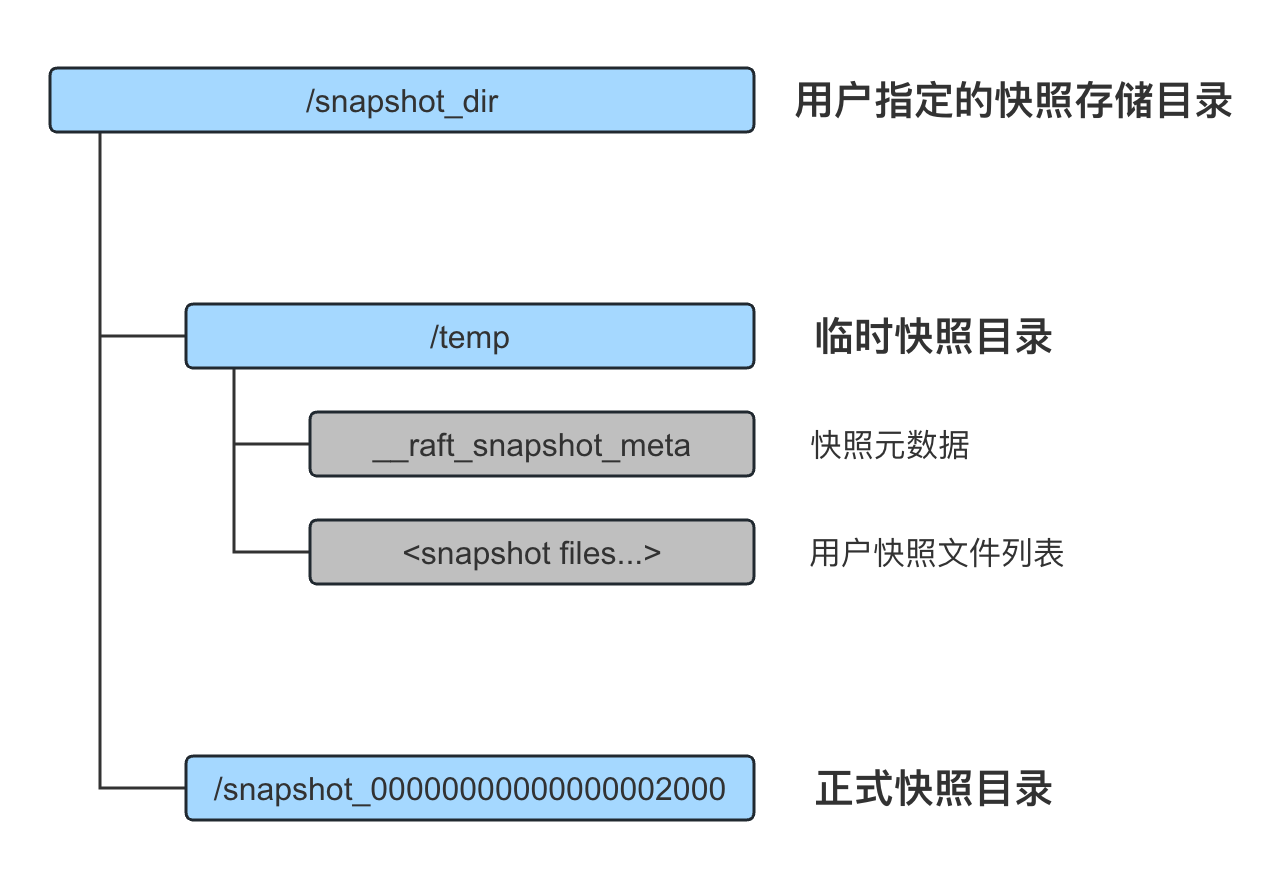
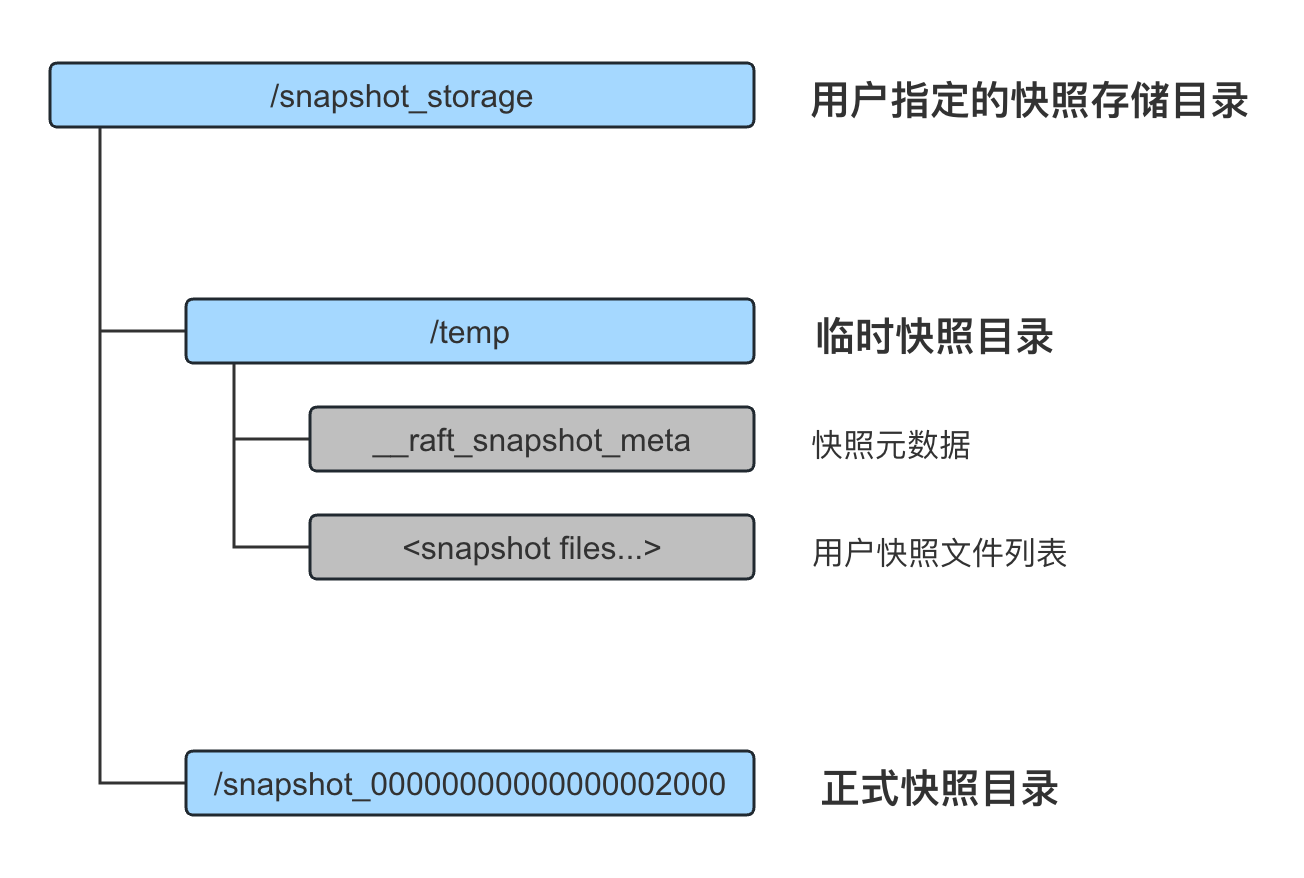
175

diff --git a/ch05/5.1/save.md b/ch05/5.1/save.md
@@ -64,7 +64,7 @@ do_real_snapshot() {
 
 快照目录下除了用户写入的快照文件集外，还有一个框架写入的元数据文件 `__raft_snapshot_meta`，元数据主要保存以下 2 部分信息：
 
-* 快照中每一个文件的相对路径，以及其 `CRC` 校验值
+* 快照中每一个文件的相对路径
 * 快照中包含的最后日志的 `index` 和 `term`，以及集群配置
 
 参见以下元数据 `proto`：
@@ -204,11 +204,10 @@ void NodeImpl::snapshot(Closure* done) {
 执行快照任务
 ---
 
-在正式创建快照前会做一些判断，决定是否要创建快照；若确定要创建快照，则：
+`NodeImpl::do_snapshot` 会调用 `SnapshotExecutor::do_snapshot` 执行快照任务。在正式创建快照前会做一些判断，决定是否要创建快照；若确定要创建快照，则：
 * 创建 `temp` 目录用于保存临时快照
 * 将创建快照任务放入 [ApplyTaskQueue][ApplyTaskQueue] 中等待被执行
 
-执行快照任务：
 ```cpp
 void NodeImpl::do_snapshot(Closure* done) {
     ...
@@ -217,9 +216,7 @@ void NodeImpl::do_snapshot(Closure* done) {
     }
     ...
 }
-```
 
-```cpp
 void SnapshotExecutor::do_snapshot(Closure* done) {
     ...
     // (1) 判断 1：正在从 Leader 下载快照
@@ -250,7 +247,8 @@ void SnapshotExecutor::do_snapshot(Closure* done) {
         return;
     }
 
-    // (4) 创建 temp 目录用于保存临时快照，并返回 SnapshotWriter
+    // (4) 调用 `LocalSnapshotStorage::create` 创建 temp 目录用于保存临时快照
+    //     并返回 SnapshotWriter
     SnapshotWriter* writer = _snapshot_storage->create();
     ...
     _saving_snapshot = true;
@@ -269,7 +267,7 @@ void SnapshotExecutor::do_snapshot(Closure* done) {
 创建临时目录
 ---
 
-创建 `temp` 目录，若已存在则先将其删除，并返回 `SnapshotWriter`：
+`LocalSnapshotStorage::create` 会创建 `temp` 目录，若事先已存在 `temp` 目录，则先将其删除后再创建，并返回 `SnapshotWriter`：
 
 ```cpp
 SnapshotWriter* LocalSnapshotStorage::create() {
@@ -280,7 +278,7 @@ SnapshotWriter* LocalSnapshotStorage::create(bool from_empty) {
     LocalSnapshotWriter* writer = NULL;
 
     do {
-        std::string snapshot_path(_path);  // _path 为用户配置的快照目录
+        std::string snapshot_path(_path);  // _path 为用户配置的快照存储目录
         snapshot_path.append("/");
         snapshot_path.append(_s_temp_path);  // e.g. data/temp
 
@@ -293,8 +291,9 @@ SnapshotWriter* LocalSnapshotStorage::create(bool from_empty) {
             }
         }
 
+        // (2) 调用 `LocalSnapshotWriter::init` 创建 temp 目录
         writer = new LocalSnapshotWriter(snapshot_path, _fs.get());
-        if (writer->init() != 0) {  // (2) 创建 temp 目录
+        if (writer->init() != 0) {
             ...
             break;
         }
@@ -302,16 +301,22 @@ SnapshotWriter* LocalSnapshotStorage::create(bool from_empty) {
 
     return writer;
 }
+
+int LocalSnapshotWriter::init() {
+    butil::File::Error e;
+    // (3) 创建 temp 目录
+    if (!_fs->create_directory(_path, &e, false)) {
+        return EIO;
+    }
+    ...
+}
 ```
 
-回调 on_snapshot_save
+调用 `on_snapshot_save`
 ---
 
-将创建快照任务放入 `ApplyTaskQueue`，待其被执行时：
-* 准备好元数据，将其保存在 `Closure` 中
-* 将 `Closure` 和 上述创建的 `SnapshotWriter` 作为参数回调用户状态机的 `on_snapshot_save`。
+创建好 `temp` 目录后，会调用 `FSMCaller::on_snapshot_save` 将快照任务放入 [ApplyTaskQueue][applytaskqueue]，待其被执行时：
 
-将任务放入队列：
 ```cpp
 int FSMCaller::on_snapshot_save(SaveSnapshotClosure* done) {
     ApplyTask task;
@@ -321,7 +326,7 @@ int FSMCaller::on_snapshot_save(SaveSnapshotClosure* done) {
 }
 ```
 
-队列消费函数：
+队列消费函数调用 `FSMCaller::do_snapshot_save`：
 ```cpp
 int FSMCaller::run(void* meta, bthread::TaskIterator<ApplyTask>& iter) {
     ...
@@ -341,17 +346,22 @@ int FSMCaller::run(void* meta, bthread::TaskIterator<ApplyTask>& iter) {
 }
 ```
 
-回调状态机 `on_snapshot_save`:
+`FSMCaller::do_snapshot_save` 函数主要做 2 件事：
+* 准备好元数据，将其保存在 `Closure` 中
+* 将 上述创建的 `SnapshotWriter` 和 `Closure` 作为参数调用用户状态机的 `on_snapshot_save`
+
 ```cpp
 void FSMCaller::do_snapshot_save(SaveSnapshotClosure* done) {
     //（1）准备快照元数据
-    int64_t last_applied_index = _last_applied_index.load(butil::memory_order_relaxed);
+    int64_t last_applied_index = _last_applied_index.load(butil::memory_order_relaxed);  // applyIndex
 
     SnapshotMeta meta;
-    meta.set_last_included_index(last_applied_index);  // (1.1) 最后一条应用日志的 Index
-    meta.set_last_included_term(_last_applied_term);   // (1.2) 最后一条应用日志的 Term
+    // (1.1) 最后一条应用日志的 Index
+    meta.set_last_included_index(last_applied_index);
+    // (1.2) 最后一条应用日志的 Term
+    meta.set_last_included_term(_last_applied_term);
 
-    // (1.3) 当前集群的配置
+    // (1.3) 当前节点的配置
     //       若 old_peers 不为空，则为配置变更的 C{old,new}
     //       否则为当前集群的配置，即 C{new}
     ConfigurationEntry conf_entry;
@@ -367,22 +377,22 @@ void FSMCaller::do_snapshot_save(SaveSnapshotClosure* done) {
         *meta.add_old_peers() = iter->to_string();
     }
 
-    // (2) 回调 on_snapshot_save
+    // (1.4) 将元数据保存在 `Closure` 中
     SnapshotWriter* writer = done->start(meta);
     ...
+    // (2) 调用用户状态机 on_snapshot_save
     _fsm->on_snapshot_save(writer, done);
     return;
 }
 ```
 
-阶段二：用户写入数据
+阶段二：`on_snapshot_save`
 ===
 
-写入数据
----
-
-用户需要实现 `on_snapshot_save`，在该函数中需要执行实际的创建快照任务，并通过 `add_file` 将所有文件逐一加入到快照中，待全部完成后，调用 `done->Run()` 将其转换为正式快照：
-
+用户需要实现状态机的 `on_snapshot_save` 函数，在该函数中用户需要做以下 3 件事：
+* 调用 `writer->get_path` 获取临时快照的目录路径，并将快照文件写入到该目录下
+* 调用 `write->add` 将快照中每一个文件的相对路径加入到快照元数据中
+* 待以上全部完成后，调用 `done->Run` 将临时快照转换为正式快照
 
 ```cpp
 class StateMachine {
@@ -397,6 +407,29 @@ public:
 };
 ```
 
+写入数据
+---
+`get_path` 接口会返回临时快照（`temp`）目录 的绝对路径：
+
+```cpp
+class LocalSnapshotWriter : public SnapshotWriter {
+public:
+    ...
+    virtual std::string get_path() { return _path; }
+    ...
+private:
+    // Users shouldn't create LocalSnapshotWriter Directly
+    LocalSnapshotWriter(const std::string& path,
+                        FileSystemAdaptor* fs);
+    ...
+    std::string _path;
+    ...
+};
+```
+
+add_file
+---
+
 ```cpp
 class SnapshotWriter : public Snapshot {
 public:
@@ -407,20 +440,35 @@ public:
     // Note that whether the file will be created onto the backing storage is
     // implementation-defined.
     virtual int add_file(const std::string& filename);
-
-    // Remove a file from the snapshot
-    // Note that whether the file will be removed from the backing storage is
-    // implementation-defined.
-    virtual int remove_file(const std::string& filename) = 0;
 };
+```
+
+`add_file` 接口只是将文件路径添加到元数据中而已：
+
+```cpp
+int LocalSnapshotWriter::add_file(
+        const std::string& filename,
+        const ::google::protobuf::Message* file_meta) {
+    ...
+    return _meta_table.add_file(filename, meta);
+}
+
+int LocalSnapshotMetaTable::add_file(const std::string& filename,
+                                const LocalFileMeta& meta) {
+    Map::value_type value(filename, meta);
+    std::pair<Map::iterator, bool> ret = _file_map.insert(value);
+    ...
+    return ret.second ? 0 : -1;
+}
 ```
 
 阶段三：转为正式快照
 ===
 
-用户完成快照的创建后，会回调 `SaveSnapshotDone::Run()`，而该函数会将临时快照 `rename` 成正式快照，并删除上一个快照，以及删除上一个快照对应的日志。
+用户完成快照的创建后，会调用 `Closure` 即 `SaveSnapshotDone::Run()`，而该函数会将临时快照 `rename` 成正式快照，并删除上一个快照，以及删除上一个快照对应的日志。
 
-用户回调的 `done->Run()`：
+用户调用 `SaveSnapshotDone::Run`，该函数主要执行以下 2 件事：
+
 ```cpp
 void SaveSnapshotDone::Run() {
     // Avoid blocking FSMCaller
@@ -438,7 +486,7 @@ void* SaveSnapshotDone::continue_run(void* arg) {
     SaveSnapshotDone* self = (SaveSnapshotDone*)arg;
     ...
     // Must call on_snapshot_save_done to clear _saving_snapshot
-    // (1)
+    // (1) 调用 `SnapshotExecutor::on_snapshot_save_done` 执行实际的收尾动作
     int ret = self->_se->on_snapshot_save_done(
         self->status(), self->_meta, self->_writer);
     }
@@ -450,6 +498,8 @@ void* SaveSnapshotDone::continue_run(void* arg) {
     return NULL;
 }
 ```
+
+`on_snapshot_save_done` 会
 
 ```cpp
 int SnapshotExecutor::on_snapshot_save_done(
@@ -505,6 +555,53 @@ int SnapshotExecutor::on_snapshot_save_done(
 
 写入元数据
 ---
+
+```cpp
+int LocalSnapshotWriter::save_meta(const SnapshotMeta& meta) {
+    _meta_table.set_meta(meta);
+    return 0;
+}
+
+class LocalSnapshotMetaTable {
+public:
+    ...
+    void set_meta(const SnapshotMeta& meta) { _meta = meta; }
+    ...
+private:
+    ...
+    SnapshotMeta _meta;
+};
+```
+
+将元数据写入 `__raft_snapshot_meta` 文件：
+```cpp
+int LocalSnapshotWriter::sync() {
+    const int rc = _meta_table.save_to_file(_fs, _path + "/" BRAFT_SNAPSHOT_META_FILE);
+    ...
+    return rc;
+}
+```
+
+```cpp
+int LocalSnapshotMetaTable::save_to_file(FileSystemAdaptor* fs, const std::string& path) const {
+    LocalSnapshotPbMeta pb_meta;
+    if (_meta.IsInitialized()) {
+        *pb_meta.mutable_meta() = _meta;
+    }
+    for (Map::const_iterator
+            iter = _file_map.begin(); iter != _file_map.end(); ++iter) {
+        LocalSnapshotPbMeta::File *f = pb_meta.add_files();
+        f->set_name(iter->first);
+        *f->mutable_meta() = iter->second;
+    }
+    ProtoBufFile pb_file(path, fs);
+    int ret = pb_file.save(&pb_meta, raft_sync_meta());
+    PLOG_IF(ERROR, ret != 0) << "Fail to save meta to " << path;
+    return ret;
+}
+```
+
+
 删除上一个快照
 ---
 
